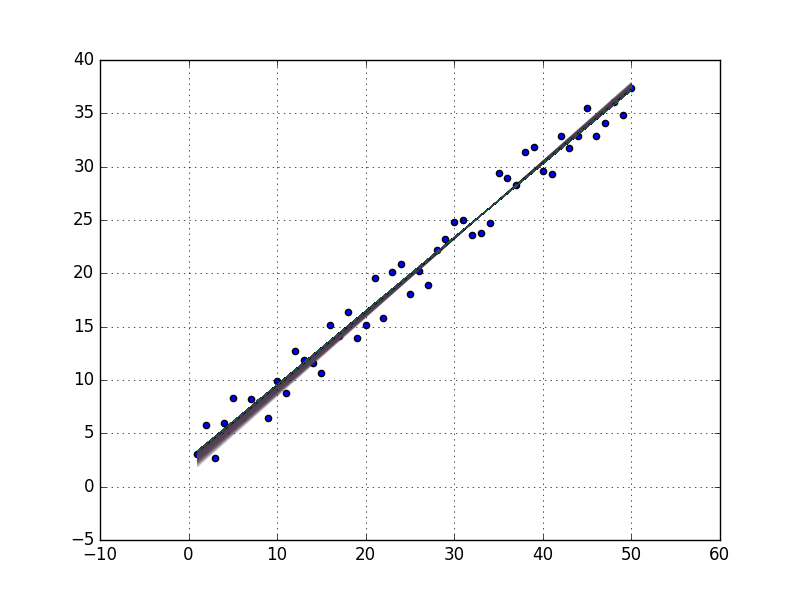
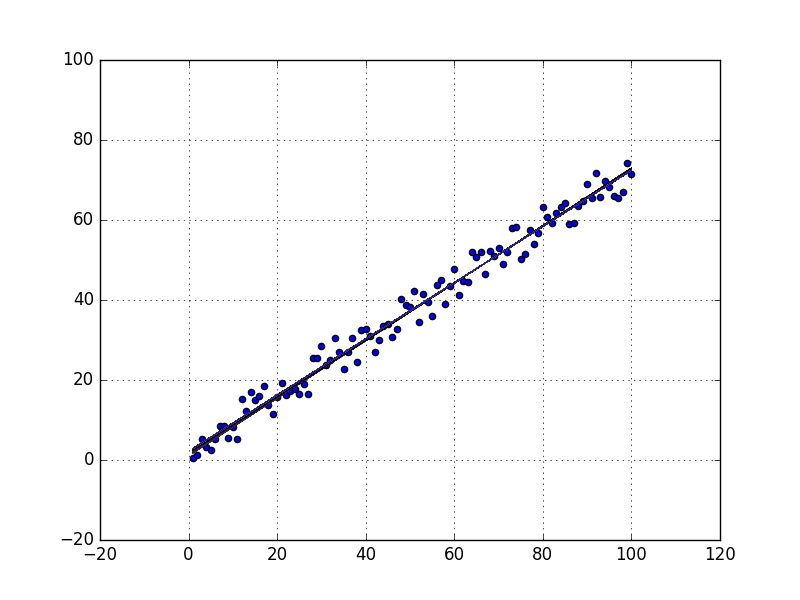
add

diff --git a/工具类.py b/工具类.py
@@ -1,69 +1,201 @@
 from random import sample, randint
 import matplotlib.pyplot as plt
+from matplotlib import font_manager
 from mpl_toolkits.mplot3d import Axes3D
 import numpy as np
 
+from cartesian import Cartesian
 
-def 创建多元多次函数(元数, 最大次数, 系数范围, 自变量取值范围):
-    # 创建系数
+chs_font = font_manager.FontProperties(fname="思源宋体 SC-Bold.otf")
+
+
+def 梯度下降(元组, 自变量起始列表, 学习率, 梯度停止阈值, 最大迭代数, 求导函数):
+    x = np.array(自变量起始列表, dtype='float64')
+    passing_dot = [x.copy()]
+    for i in range(最大迭代数):
+        grad = 求导函数(元组, x)
+        x -= grad * 学习率
+        passing_dot.append(x.copy())
+        print('[ Epoch {0} ] grad = {1}, x = {2}'.format(i, grad, x))
+        if abs(sum(grad)) < 梯度停止阈值:
+            break
+    return x, passing_dot
+
+
+def 求导数(元组, 自变量列表):
+    assert len(元组) == len(自变量列表)
+    导数向量 = []
+    for 元组序号, 元项 in enumerate(元组):
+        元项导数值 = 0
+        自变量值 = 自变量列表[元组序号]
+        for 系数, 次数 in 元项:
+            if 次数 == 0:
+                元项导数值 += 0
+            else:
+                元项导数值 += 次数 * 系数 * pow(自变量值, 次数 - 1)
+        导数向量.append(元项导数值)
+    return np.array(导数向量)
+
+
+def 计算多元多次函数(元组, 自变量列表):
+    assert len(元组) == len(自变量列表)
+    应变量计算值 = 0
+    for 元组序号, 元项 in enumerate(元组):
+        元项计算值 = 0
+        自变量值 = 自变量列表[元组序号]
+        for 系数, 次数 in 元项:
+            元项计算值 += 系数 * np.power(自变量值, 次数)
+        应变量计算值 += 元项计算值
+    return 应变量计算值
+
+
+def 生成自变量笛卡尔集(自变量取值范围, 步长):
+    assert len(自变量取值范围) == len(步长)
+    自变量列表 = []
+    for 自变量序号, 自变量 in enumerate(自变量取值范围):
+        自变量_起始值 = 自变量[0]
+        自变量_终止值 = 自变量[1]
+        自变量_步长 = 步长[自变量序号] if abs(自变量_终止值 - 自变量_起始值) > 步长[自变量序号] else 1
+        自变量列表.append(list(np.arange(自变量_起始值, 自变量_终止值, 自变量_步长)))
+    自变量笛卡尔集 = Cartesian(自变量列表)
+    return 自变量笛卡尔集.assemble()
+
+
+def 生成自变量同步集(自变量取值范围, 步长):
+    assert len(自变量取值范围) == len(步长)
+    自变量列表 = []
+    for 自变量序号, 自变量 in enumerate(自变量取值范围):
+        自变量_起始值 = 自变量[0]
+        自变量_终止值 = 自变量[1]
+        自变量_步长 = 步长[自变量序号] if abs(自变量_终止值 - 自变量_起始值) > 步长[自变量序号] else 1
+        自变量列表.append(list(np.arange(自变量_起始值, 自变量_终止值, 自变量_步长)))
+    自变量同步集长度 = min([len(i) for i in 自变量列表])
+    自变量同步集 = [[j[i] for j in 自变量列表] for i in range(自变量同步集长度)]
+    return 自变量同步集
+
+
+def 创建多元多次函数(元数, 最大次数, 系数范围):
     元组 = []
-    for _ in range(元数):
+    for 元项序号 in range(元数):
         元项 = []
         次数列 = list(range(0, 最大次数 + 1))
         采样数 = randint(1, 最大次数 + 1)
         次数采样 = sample(次数列, 采样数)
         次数采样.sort(reverse=True)
+        当前系数范围 = 系数范围[元项序号]
         for e, 次数 in enumerate(次数采样):
             if e == 0:
-                系数 = randint(1, 系数范围[1])
+                系数 = randint(1, 当前系数范围[1])
             else:
-                系数 = randint(系数范围[0], 系数范围[1])
+                系数 = randint(当前系数范围[0], 当前系数范围[1])
             元项.append((系数, 次数))
         元组.append(元项)
-    # 实例化曲线
-    f_应变量 = 0
-    自变量列表 = []
-    for 元项序号, 元项 in enumerate(元组):
-        f_元项 = 0
-        x_area = 自变量取值范围[元项序号]
-        x = np.arange(x_area[0], x_area[1])
-        for 系数, 次数 in 元项:
-            f_元项 += 系数 * np.power(x, 次数)
-        f_应变量 += f_元项
-        自变量列表.append(x)
-
-    return 元组, 自变量列表, f_应变量
+    return 元组
 
 
-def 绘制多元多次函数曲线(自变量列表, f_应变量, out_png_fp=None):
+def 实例化多元多次函数(元组, 自变量取值范围, 步长, 使用笛卡尔=False):
+    if 使用笛卡尔:
+        自变量集 = 生成自变量笛卡尔集(自变量取值范围, 步长)
+    else:
+        自变量集 = 生成自变量同步集(自变量取值范围, 步长)
+    自变量取值 = [[] for _ in 元组]
+    应变量取值 = []
+    for 自变量 in 自变量集:
+        应变量 = 计算多元多次函数(元组, 自变量)
+        应变量取值.append(应变量)
+        for 自变量序号, 自变量单维度取值 in enumerate(自变量):
+            自变量取值[自变量序号].append(自变量单维度取值)
+    return 自变量取值, 应变量取值
+
+
+def 绘制多元多次函数曲线(元组, 自变量取值, 应变量取值, 模式="曲线", 梯度下降轨迹=None, fp=None):
     plt.grid(True)
-    fig = plt.figure()
 
-    if len(自变量列表) == 2:
-        x = 自变量列表[0]
-        y = 自变量列表[1]
-        ax = fig.gca(projection='3d')
-        ax.plot(x, y, f_应变量, color='r')
-        ax.legend()
-    elif len(自变量列表) == 1:
-        x = 自变量列表[0]
-        plt.plot(x, f_应变量, linewidth=1)
+    if len(自变量取值) == 2:
+        x = 自变量取值[0]
+        y = 自变量取值[1]
+        X, Y = np.meshgrid(x, y)
+        Z = 计算多元多次函数(元组, [X, Y])
+        if 模式 == "等高线":
+            plt.figure(figsize=(12, 8))
+            plt.contour(X, Y, Z, colors='black')
+            if 梯度下降轨迹 is not None:
+                arr = np.array(梯度下降轨迹)
+                for i in range(len(arr) - 1):
+                    plt.plot(arr[i:i + 2, 0], arr[i:i + 2, 1], marker="o", markersize=3)
+        elif 模式 == "曲面":
+            fig = plt.figure()
+            ax = fig.gca(projection='3d')
+            ax.set_title("二元曲面", fontproperties=chs_font)
+            # ax.plot_surface(X, Y, Z, cmap='rainbow')
+            ax.plot_surface(X, Y, Z, color='white')
+            if 梯度下降轨迹 is not None:
+                arr = np.array(梯度下降轨迹)
+                for i in range(len(arr) - 1):
+                    plt.plot(arr[i:i + 2, 0], arr[i:i + 2, 1], arr[i:i + 2, 2], marker="o", markersize=3)
+                ax.legend()
+        elif 模式 == "曲线":
+            fig = plt.figure()
+            ax = fig.gca(projection='3d')
+            ax.set_title("二元多次曲线", fontproperties=chs_font)
+            ax.plot(x, y, 应变量取值,
+                    color='r', linewidth=1, label="2d curve")
+            ax.legend()
+        else:
+            plt.close()
+            return
+    elif len(自变量取值) == 1:
+        x = 自变量取值[0]
+        plt.plot(x, 应变量取值, linewidth=1)
     else:
         plt.close()
         return
 
-    plt.show()
+    plt.savefig(fp)
+    # plt.show()
     plt.close()
+
+
+def 生成多元多次函数(元数, 最大次数, 系数范围, 步长, fp=None):
+    元组 = 创建多元多次函数(元数, 最大次数, 系数范围)
+    自变量取值, 应变量取值 = 实例化多元多次函数(元组, 自变量取值范围, 步长, 使用笛卡尔=False)
+    # 绘制多元多次函数曲线(元组, 自变量取值, 应变量取值, 模式="等高线", fp=fp)
+    return 元组, 自变量取值, 应变量取值
 
 
 if __name__ == '__main__':
     元数 = 2
     最大次数 = 2
-    系数范围 = [-10, 10]
+    系数范围 = [
+        [-4, 4],
+        [-50, 50]
+    ]
     自变量取值范围 = [
         [-200, 200],
-        [-200, 200]
+        [-100, 100]
     ]
-    元组, 自变量列表, f_应变量 = 创建多元多次函数(元数, 最大次数, 系数范围, 自变量取值范围)
-    print(np.shape(自变量列表))
-    绘制多元多次函数曲线(自变量列表, f_应变量)
+    步长 = [
+        2,
+        1,
+    ]
+    mode="等高线"
+    元组, 自变量取值, 应变量取值 = 生成多元多次函数(元数, 最大次数, 系数范围, 步长)
+    print(元组)
+
+    自变量起始列表 = [150, 75]
+    学习率 = 0.018
+    梯度停止阈值 = 1e-6
+    最大迭代数 = int(1e3)
+    res, x_arr = 梯度下降(元组,
+                      自变量起始列表=自变量起始列表,
+                      学习率=学习率,
+                      梯度停止阈值=梯度停止阈值,
+                      最大迭代数=最大迭代数,
+                      求导函数=求导数)
+    for i in range(len(x_arr)):
+        x_arr[i] = list(x_arr[i])
+        x_arr[i].append(计算多元多次函数(元组, x_arr[i]))
+    fp = "多元多次函数等高线.png"
+    绘制多元多次函数曲线(元组, 自变量取值, 应变量取值, 模式="等高线", 梯度下降轨迹=x_arr, fp=fp)
+    fp = "多元多次函数曲面逼近.png"
+    绘制多元多次函数曲线(元组, 自变量取值, 应变量取值, 模式="曲面", 梯度下降轨迹=x_arr, fp=fp)

diff --git a/cartesian.py b/cartesian.py
@@ -1,0 +1,62 @@
+# python 实现N个数组的排列组合(笛卡尔积算法)
+class Cartesian(object):
+    # 初始化
+    def __init__(self, datagroup):
+        self.datagroup = datagroup
+        # 二维数组从后往前下标值
+        self.counterIndex = len(datagroup)-1
+        # 每次输出数组数值的下标值数组(初始化为0)
+        self.counter = [0 for i in range(0, len(self.datagroup))]
+
+    # 计算数组长度
+    def countlength(self):
+        i = 0
+        length = 1
+        while i < len(self.datagroup):
+            length *= len(self.datagroup[i])
+            i += 1
+        return length
+
+    # 递归处理输出下标
+    def handle(self):
+        # 定位输出下标数组开始从最后一位递增
+        self.counter[self.counterIndex]+=1
+        # 判断定位数组最后一位是否超过长度，超过长度，第一次最后一位已遍历结束
+        if self.counter[self.counterIndex] >= len(self.datagroup[self.counterIndex]):
+            # 重置末位下标
+            self.counter[self.counterIndex] = 0
+            # 标记counter中前一位
+            self.counterIndex -= 1
+            # 当标记位大于等于0，递归调用
+            if self.counterIndex >= 0:
+                self.handle()
+            # 重置标记
+            self.counterIndex = len(self.datagroup)-1
+
+    # 排列组合输出
+    def assemble(self):
+        rlst = []
+        length = self.countlength()
+        i = 0
+        while i < length:
+            attrlist = []
+            j = 0
+            while j < len(self.datagroup):
+                attrlist.append(self.datagroup[j][self.counter[j]])
+                j += 1
+            rlst.append(attrlist)
+            self.handle()
+            i += 1
+        return rlst
+
+
+if __name__ == '__main__':
+    datagroup = [
+        [1, 2, 3],
+        [4, 5, 6],
+        [7, 8, 9]
+    ]
+    c = Cartesian(datagroup)
+    s = c.assemble()
+    for i in s:
+        print(i)

diff --git a/梯度下降_试验1.py b/梯度下降_试验1.py
@@ -9,7 +9,7 @@ import matplotlib.pyplot as plt
 
 def set_x_y():
     # Size of the points dataset.
-    m = 50
+    m = 100
 
     # Points x-coordinate and dummy value (x0, x1).
     x0 = np.ones((m, 1))
@@ -26,7 +26,7 @@ def set_x_y():
     y = []
     for xi in x:
         yi = 0.7 * xi + 2.4
-        yi += (random.randint(1, 100) - 50) / 20
+        yi += (random.randint(1, 100) - 50) / 10
         y.append(yi)
     y = np.array(y).reshape(m, 1)
 
@@ -75,7 +75,7 @@ if __name__ == '__main__':
     m = np.shape(X)[0]
 
     # The Learning Rate alpha.
-    alpha = 2e-3
+    alpha = 2e-4
 
     optimal, try_index = gradient_descent(X, y, alpha)
     print(try_index)

diff --git a/梯度下降_比较.py b/梯度下降_比较.py
@@ -12,6 +12,7 @@ def g(x):
 
 def build_2D_func():
     xi = np.linspace(-200, 200, 1000)
+    print(xi)
     yi = np.linspace(-100, 100, 1000)
     X, Y = np.meshgrid(xi, yi)
     Z = X * X + 50 * Y * Y
@@ -23,6 +24,7 @@ def contour(X, Y, Z, arr=None):
     plt.figure(figsize=(12, 8))
     # plt.contourf(X, Y, Z, 100, cmap=plt.cm.hot)
     plt.contour(X, Y, Z, colors='black')
+    print(np.shape(X), np.shape(Y), np.shape(Z))
     plt.plot(0, 0, marker='*', markersize=12)
     if arr is not None:
         arr = np.array(arr)
